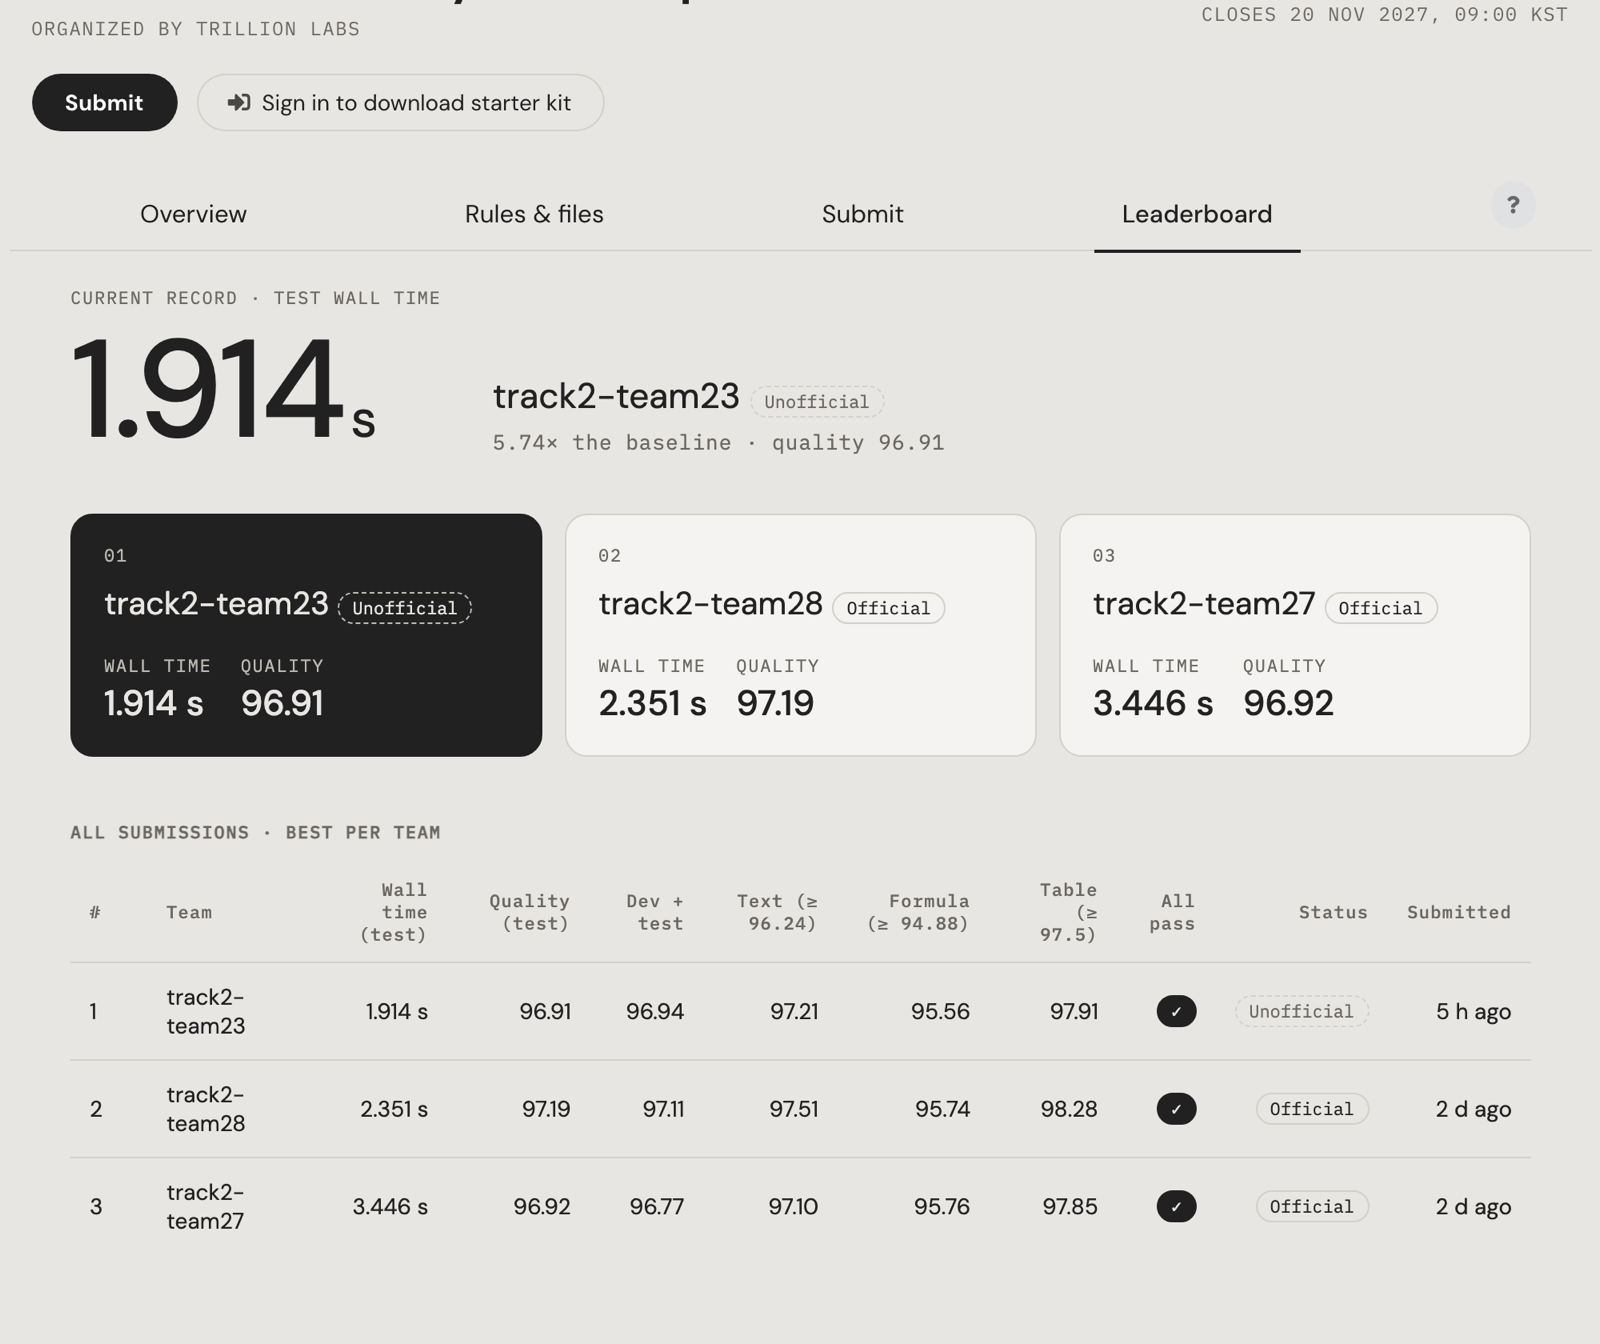
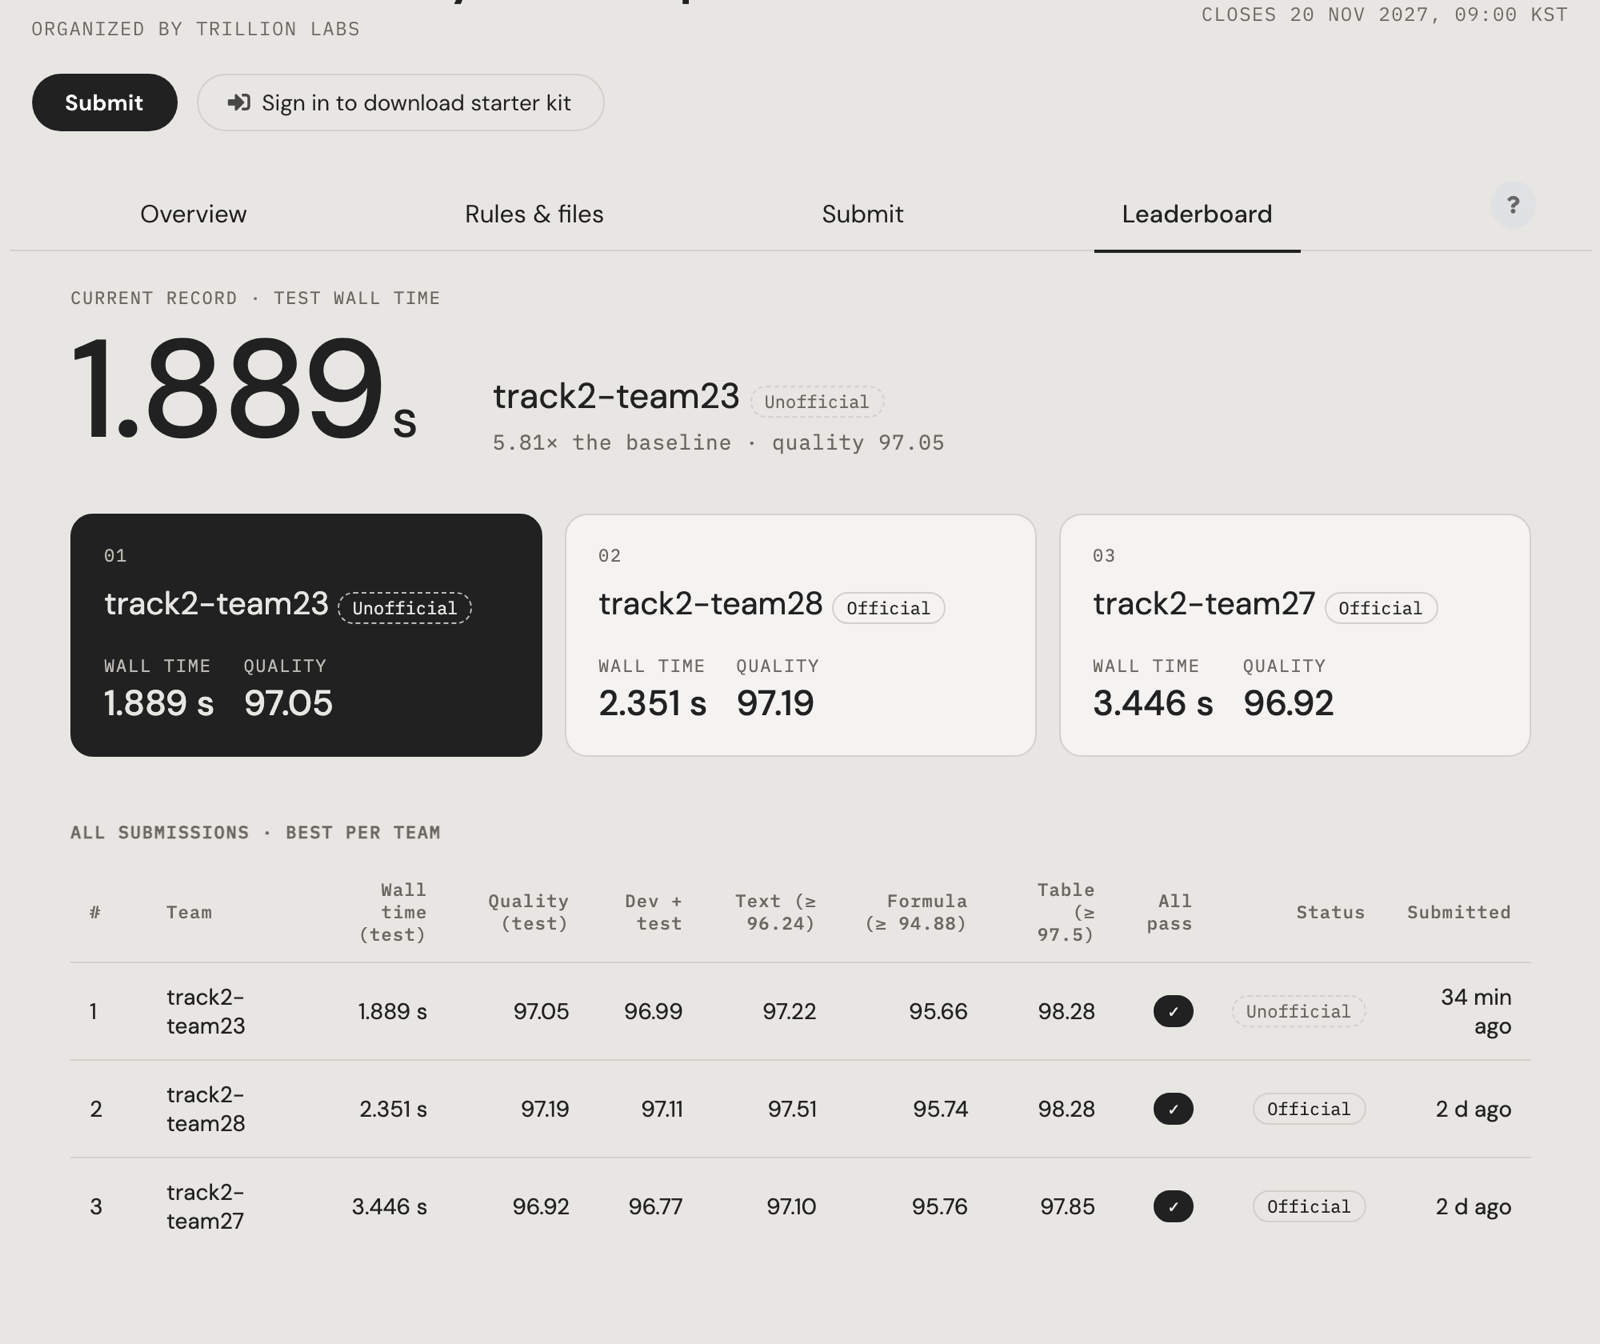
1.889 s configuration (submission 324)
- submission/: ty_m9 = ty_m7 + text/formula-lane ViT prefetch batches of 8192 patches (324, 1.889 s, quality 97.05)
- README: method 7, submissions 323-324, ty_m9 verification
- results/night_2026-11-22/: q1 A/B group and ty_m9 verification runs
- docs/leaderboard.png: current leaderboard

diff --git a/results/night_2026-11-22/README.md b/results/night_2026-11-22/README.md
@@ -123,6 +123,19 @@ ty_m8 (= ty_m7 + 표 ViT 배치 8k) 제출 내용 그대로 5회: 1.84 / 1.84 / 
 | p1 | ty_m8, 표 배치 12k | 1.869 | 1.925 | 1.85 1.86 1.87 1.88 2.17 | 튐 |
 | p1 | ty_m8, 텍스트 서버 ViT 배치도 8k | 1.853 | 1.854 | 1.82 1.84 1.85 1.87 1.89 | q1에서 확인 |
 
+## q1: 텍스트·수식 서버 ViT 배치 8k (6바퀴)
+
+| 그룹 | 설정 | 중앙값 | 평균 | 회차 | 판정 |
+|---|---|---:|---:|---|---|
+| q1 | ty_m7 | 1.881 | 1.898 | 1.86 1.87 1.88 1.89 1.91 1.98 | 기준 |
+| q1 | ty_m7 + 텍스트 서버 ViT 배치 8k | 1.869 | 1.859 | 1.83 1.84 1.87 1.87 1.87 1.87 | **채택 → ty_m9** (바퀴별 5승 1무, 차이 중앙값 −0.032 s, 튀는 회차 없음) |
+| q1 | ty_m8 + 텍스트 서버 ViT 배치 8k (표·텍스트 모두 8k) | 1.853 | 1.910 | 1.85 1.85 1.85 1.85 1.86 2.19 | 1회 크게 튐(2.19 s), 기각 |
+
+ty_m9 (= ty_m7 + `TRACK2_LANE_VIT_PF_PATCHES=16384,8192`) 제출 내용 그대로 3회: 1.83 / 1.86 / 1.85 s.
+품질 dev 96.92 / 94.90 / 98.61 (3회 중 가장 낮은 회차), 홀드아웃 96.68 / 95.37 / 99.41, 일치도 99.31 / 98.92.
+예상 리더보드(추정) 1.88~1.90 s, 품질 약 96.9.
+**결과: 제출 324, 리더보드 1.889 s, 품질 97.05, 통과** (322번 1.914 s에서 −0.025 s, 베이스라인 대비 5.81배).
+
 ## 리더보드 기록 흐름
 
 | 제출 | 내용 | 리더보드 | 품질 |
@@ -130,5 +143,6 @@ ty_m8 (= ty_m7 + 표 ViT 배치 8k) 제출 내용 그대로 5회: 1.84 / 1.84 / 
 | 319 ty_m4 | 서버 2대 + 계산량 절감 4가지 | 1.974 | 96.85 |
 | 320 ty_m5 | + 순차 시작, 텍스트 초안 11, 텍스트 요청 한도 200 | 1.948 | 96.87 |
 | 321 ty_m6 | + 표 글자 10 px | 1.930 | 96.95 |
-| 322 ty_m7 | + 표 서버 ViT 스트림 우선순위 −10 | **1.914** | 96.91 |
-| 323 ty_m8 | + 표 서버 ViT 배치 8k | 1.918 | 96.93 |
+| 322 ty_m7 | + 표 서버 ViT 스트림 우선순위 −10 | 1.914 | 96.91 |
+| 323 ty_m8 | ty_m7 + 표 서버 ViT 배치 8k | 1.918 | 96.93 |
+| 324 ty_m9 | ty_m7 + 텍스트·수식 서버 ViT 배치 8k | **1.889** | 97.05 |

diff --git a/submission/NOTICE.md b/submission/NOTICE.md
@@ -38,3 +38,4 @@ Changes by team taktak (2026-11-22), all default-off switches turned on in `TY_S
 10. `TY_SETTINGS`: table glyph-height target 10 px (was 11).
 11. `TY_SETTINGS`: the table lane runs its ViT prefetch stream at priority -10 (inside its below-normal MPS client), so
     table images are encoded ahead of the table decode rounds.
+12. `TY_SETTINGS`: the text and formula lane packs ViT prefetch batches of at most 8192 patches (was 16384).
